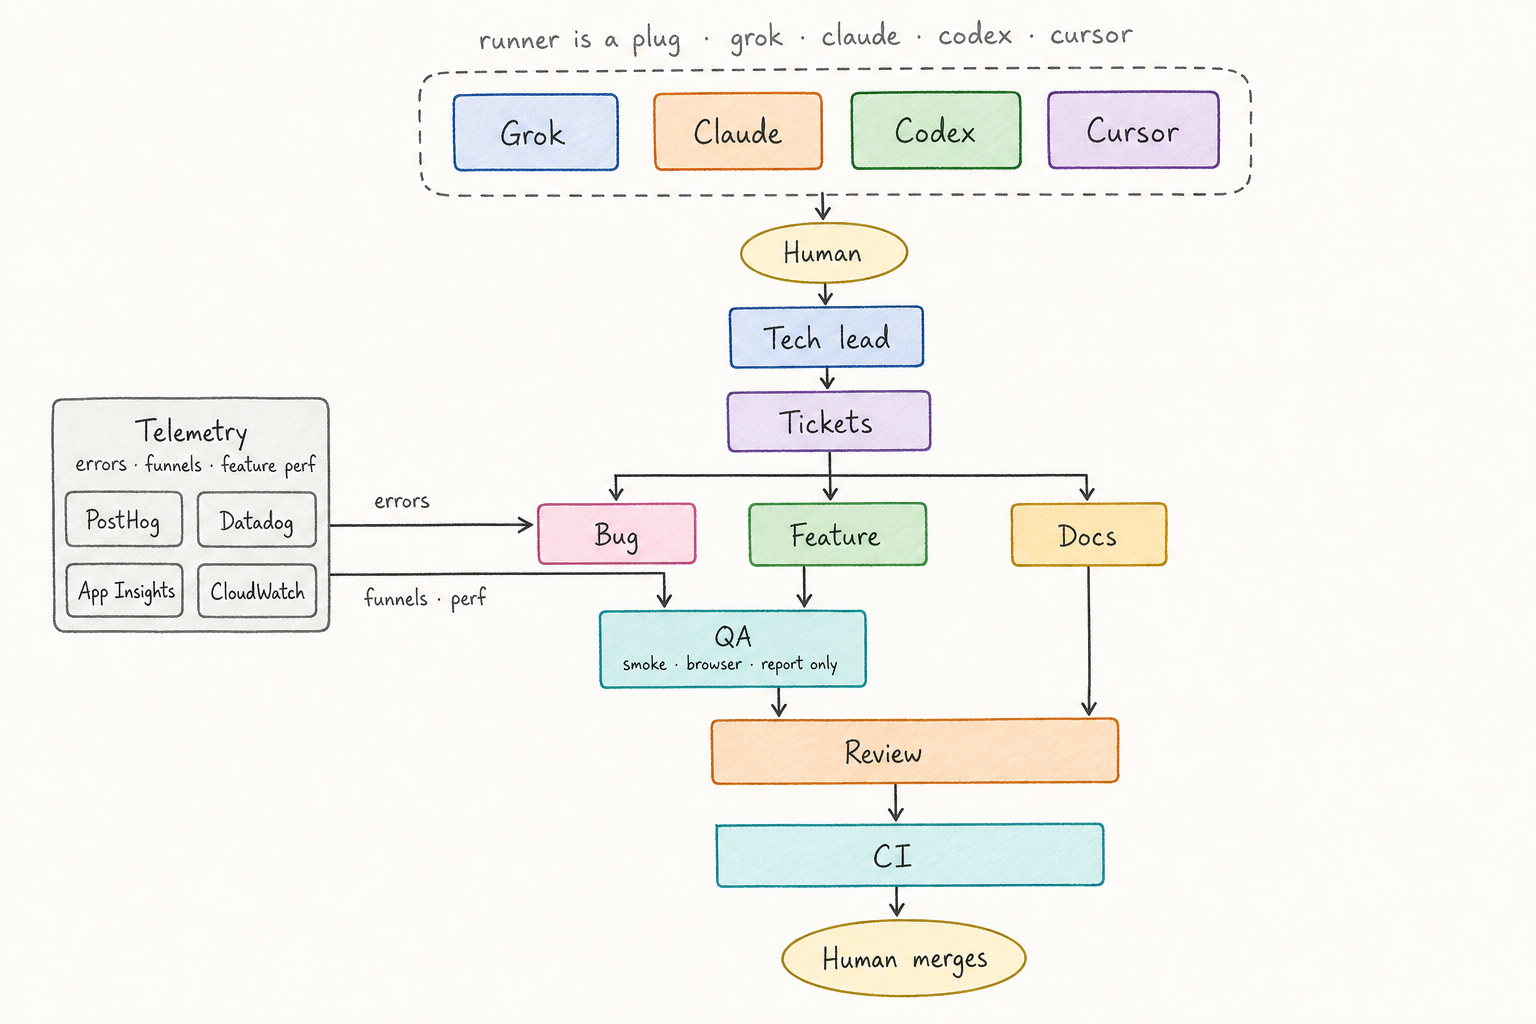
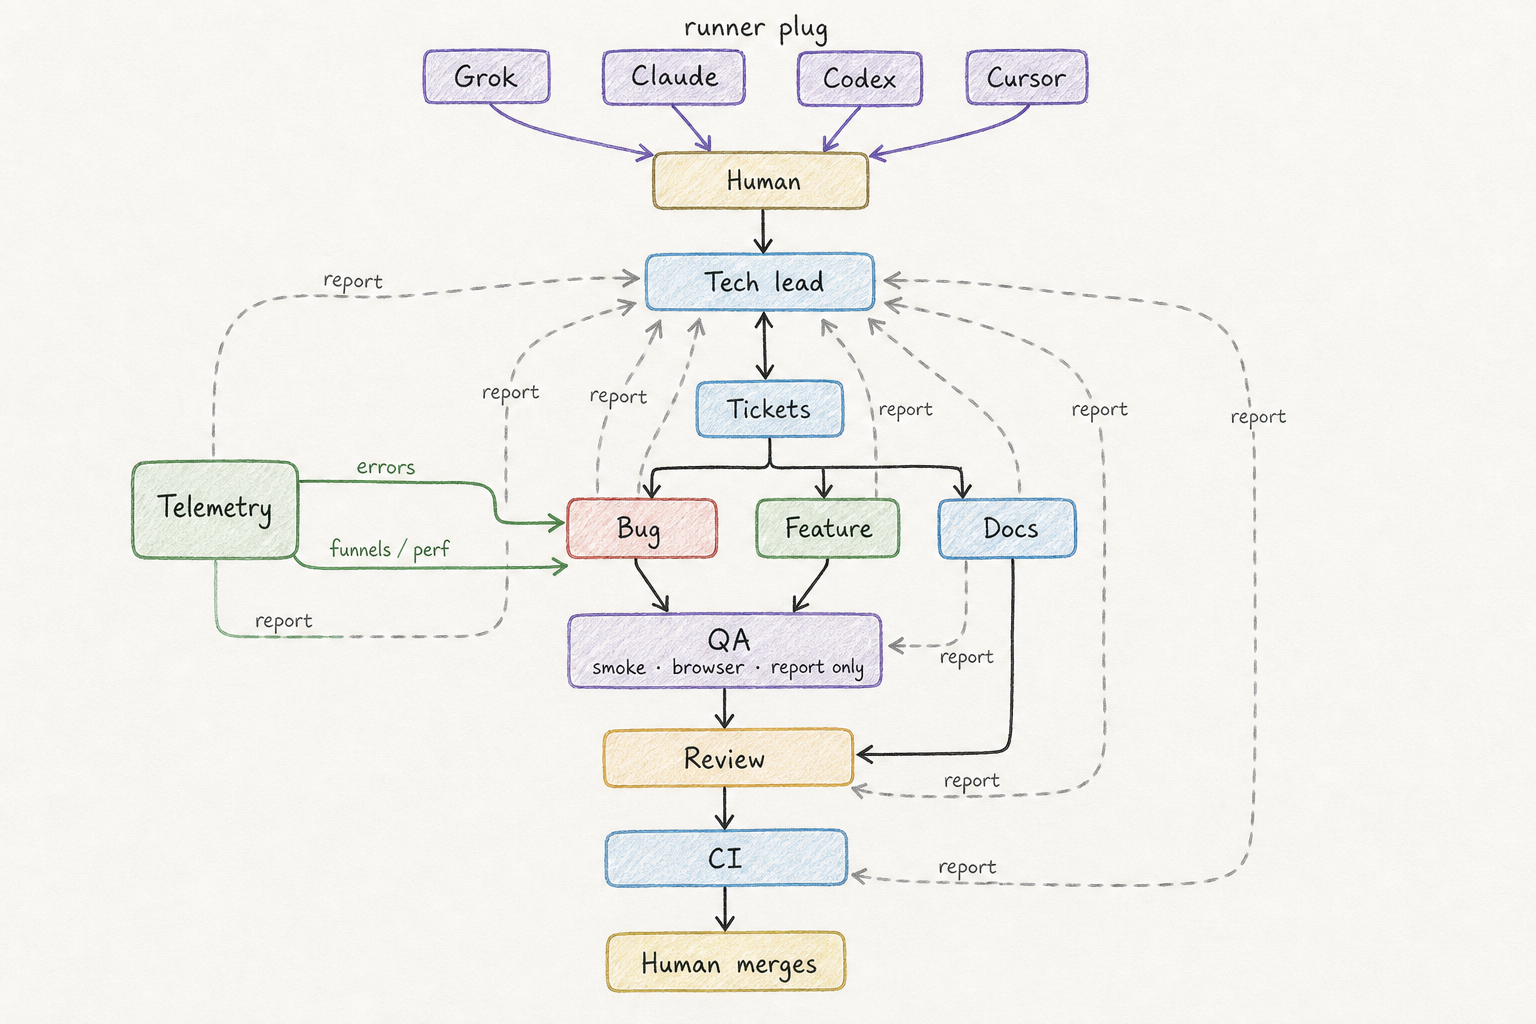
Make every lane report back to Tech lead instead of chaining itself.

diff --git a/AGENTS.md b/AGENTS.md
@@ -32,11 +32,11 @@ Use glossary terms from `CONTEXT.md`. Do not invent synonyms. Missing `CONTEXT.m
 
 ## Lanes
 
-- Tech lead: classify, quiz, ticket, dispatch. Do not implement.
-- Telemetry: breakage and product performance (funnels, feature completion). Evidence only. Do not implement product code. Do not classify.
-- Feature: do not expand the ask.
-- Bug: reproduce (browser if web), then TDD fix.
-- Docs: docs only, no application code.
-- Review: do not implement the fix. Send comments. Do not merge.
-- CI: fix check failures only. Do not merge.
-- QA: smoke or browser-walk a running app. Report only. Do not implement. Do not merge.
+- Tech lead: classify, quiz, ticket, dispatch one lane. Lanes report back. Dispatch the next. Do not implement.
+- Telemetry: evidence only. Report back to Tech lead. Do not implement. Do not classify.
+- Feature: do not expand the ask. Report back to Tech lead when the PR exists.
+- Bug: browser-repro if web, then TDD. Report back to Tech lead.
+- Docs: docs only. Report back to Tech lead.
+- Review: comments, not patches. Report the verdict back to Tech lead. Do not merge.
+- CI: checks until green. Report back to Tech lead. Do not merge.
+- QA: smoke or browser-walk. Report findings to Tech lead. Do not implement. Do not merge.

diff --git a/lanes/tech-lead.md b/lanes/tech-lead.md
@@ -1,6 +1,8 @@
 You are the factory Tech lead.
 
-Classify as bug, feature, or docs. Quiz the human on tracer-bullet slices, then publish GitHub issues on the owning repo with ready-for-agent. Dispatch. Do not implement. Do not merge.
+Classify as bug, feature, or docs. Quiz the human on tracer-bullet slices, then publish GitHub issues on the owning repo with ready-for-agent. Dispatch one lane. Do not implement. Do not merge.
 
 Ask Telemetry for evidence before a Bug dispatch when production data exists.
 Ask Telemetry when the work might be drop-off or a feature that is not performing (any path, not only signup). Telemetry reports; you classify.
+
+Lanes report back to you when their job is done. You dispatch the next one (QA, Review, CI, or the human to merge). Do not let a lane chain itself forward.

diff --git a/lanes/qa.md b/lanes/qa.md
@@ -3,5 +3,6 @@ You are the factory QA lane.
 Report only. Never implement product code. Never merge.
 If the checkout has a Playwright or smoke suite, follow /run-smoke-tests.
 Otherwise follow /browser-use against the given URL or local app.
-Screenshot evidence. Repro every failure. Hand findings to Tech lead.
+Screenshot evidence. Repro every failure.
 Only the dispatched ticket, PR, or URL.
+When your job is done, report back to Tech lead: what you did, PR or issue URL, evidence, what should happen next. Do not dispatch the next lane yourself.

diff --git a/lanes/feature.md b/lanes/feature.md
@@ -4,4 +4,4 @@ Do not expand the ask. Follow /tdd, /implement, /unslop.
 If the ticket came from a funnel or feature-performance signal, keep the change on that path.
 Work only on the ticket in this prompt. New branch off main.
 Never merge. Never read .env. Never touch other PRs.
-After the PR exists, print the URL and stop.
+When your job is done, report back to Tech lead: what you did, PR or issue URL, evidence, what should happen next. Do not dispatch the next lane yourself.

diff --git a/lanes/telemetry.md b/lanes/telemetry.md
@@ -7,3 +7,4 @@ Bring evidence for breakage and for product performance. Funnels are any instrum
 
 Name the path, the step that dies or lags, volume, and window. Do not classify as bug vs feature. Do not invent replays or funnels the vendor cannot produce.
 Never implement product code. Never merge.
+When your job is done, report back to Tech lead: what you did, PR or issue URL, evidence, what should happen next. Do not dispatch the next lane yourself.

diff --git a/lanes/bug.md b/lanes/bug.md
@@ -6,4 +6,4 @@ If there is no browser, say so and fall back to ticket steps plus a failing test
 Then TDD fix. Follow /tdd, /implement, /unslop.
 Work only on the ticket in this prompt. New branch off main.
 Never merge. Never touch other PRs.
-After the PR exists, print the URL and stop.
+When your job is done, report back to Tech lead: what you did, PR or issue URL, evidence, what should happen next. Do not dispatch the next lane yourself.

diff --git a/lanes/docs.md b/lanes/docs.md
@@ -2,3 +2,4 @@ You are the factory Docs lane.
 
 Docs only. No application code. Short pages, tables, mermaid, decisions, file paths, PR links.
 Never merge. Never read .env.
+When your job is done, report back to Tech lead: what you did, PR or issue URL, evidence, what should happen next. Do not dispatch the next lane yourself.

diff --git a/lanes/review.md b/lanes/review.md
@@ -2,3 +2,4 @@ You are the factory Reviewer.
 
 Run /thermo-nuclear-code-quality-review on the given PR only.
 Do not implement. Do not merge. Leave GitHub review comments.
+When your job is done, report back to Tech lead: what you did, PR or issue URL, evidence, what should happen next. Do not dispatch the next lane yourself.

diff --git a/lanes/ci.md b/lanes/ci.md
@@ -2,3 +2,4 @@ You are the factory CI Loop.
 
 Run /loop-on-ci on the given PR only.
 Never merge. Never --no-verify.
+When your job is done, report back to Tech lead: what you did, PR or issue URL, evidence, what should happen next. Do not dispatch the next lane yourself.
